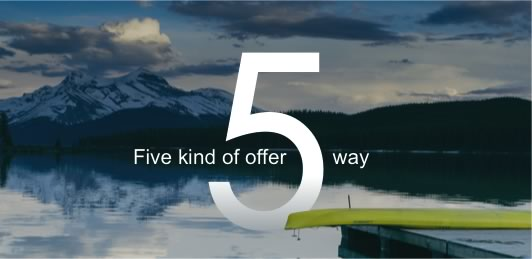
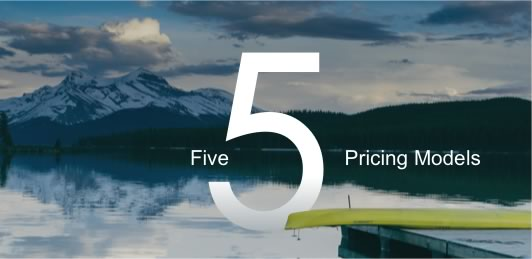
修正一些文案，还原部分漏掉的设计，增加登录按钮

diff --git a/template/index.html b/template/index.html
@@ -50,12 +50,12 @@
   <p class="leading">基于推广需求及产品特征打造定制化的移动推广方案</p>
   <div class="container block">
     <div class="row">
-      <div class="col-sm-6 col-xs-12">
+      <div class="col-sm-6 col-xs-12 pr-5 img-left">
         <img src="{{theme_url}}/img/ad-types.jpg">
       </div>
-      <div class="col-sm-6 col-xs-12 ad-types">
+      <div class="col-sm-6 col-xs-12 ad-types pr-5">
         <h3 class="block-title">七大广告形式</h3>
-        <p class="leading">Advertising forms of seven</p>
+        <p class="leading">Seven Advertising Forms</p>
         <ul>
           <li>
             <i class="icon icon-sale"></i>
@@ -89,12 +89,12 @@
       </div>
     </div>
     <div class="row">
-      <div class="col-sm-6 col-xs-12 pull-right">
+      <div class="col-sm-6 col-xs-12 pull-right img-right pl-5">
         <img src="{{theme_url}}/img/offer-ways.jpg">
       </div>
-      <div class="col-sm-6 col-xs-12 pull-right offer-ways">
+      <div class="col-sm-6 col-xs-12 pull-right offer-ways pr-5">
         <h3 class="block-title">五种出价方式</h3>
-        <p class="leading">Five kind of offer way</p>
+        <p class="leading">Five Pricing Models</p>
         <ul>
           <li><h4>CPA</h4></li>
           <li><h4>CPM</h4></li>
@@ -107,7 +107,7 @@
   </div>
   <div class="container earnings">
     <h3 class="block-title">五大收益方向</h3>
-    <p class="leading">Five big earnings direction</p>
+    <p class="leading">Five Advertising Effects</p>
     <ul>
       <li>
         <i class="icon-color icon-improve"></i>
@@ -235,11 +235,12 @@
 
 <div id="business">
   <section class="container">
-    <h2>商务合作：</h2>
+    <h2>合作对接：</h2>
     <ul>
-      <li>【安卓】Mobile：13520327725   QQ: 879509586</li>
-      <li>【iOS】Mobile：18510238828   QQ: 2858661171</li>
-      <li>【VIP】Mobile：13811709335   QQ：26485070</li>
+      <li>【安卓商务】手机：13520327725 | QQ: 879509586</li>
+      <li>【iOS商务】手机：18510238828 | QQ: 2858661171</li>
+      <li>【开发者】手机：18681807739 | QQ：1103057179</li>
+      <li>【外放渠道】手机：18801040973 | QQ：473356366</li>
     </ul>
   </section>
 </div>

diff --git a/sass/page/homepage/_product.sass b/sass/page/homepage/_product.sass
@@ -3,6 +3,7 @@
 @import "compass/css3/box-shadow"
 @import "compass/css3/images"
 @import "compass/css3/transform"
+@import "../../core/mixin"
 @import "../../define"
 
 .home #product
@@ -23,14 +24,19 @@
     background-color: $white
     padding: $gap-s
     margin-bottom: $gap-xl
+    max-width: 1064px + $gap-s * 3
 
     .row
       margin: 0
+
+      + .row
+        margin-top: $gap-s
 
     [class^=col-]
       padding: 0
 
   img
+    display: block
     max-width: 100%
 
   .ad-types,
@@ -205,6 +211,13 @@
 
   @media (max-width: $screen-xs-max)
     &
+      .block
+        .img-left::after,
+        .img-right::after
+          @include triangle(top, $white, .5em)
+          left: 50%
+          bottom: 0
+
       .earnings
         li:nth-of-type(2n)
           margin-left: $gap-s + $gap-xs
@@ -214,6 +227,23 @@
 
   @media (min-width: $screen-sm-min)
     &
+      .block
+        .pl-5
+          padding-left: $gap-xs
+
+        .pr-5
+          padding-right: $gap-xs
+
+        .img-left::after
+          @include triangle(left, $white, .5em)
+          top: 50%
+          right: $gap-xs
+
+        .img-right::after
+          @include triangle(right, $white, .5em)
+          top: 50%
+          left: $gap-xs
+
       .earnings
         li + li
           margin-left: $gap-s + $gap-xs

diff --git a/sass/core/_mixin.sass b/sass/core/_mixin.sass
@@ -1,0 +1,24 @@
+/// Triangle helper mixin
+/// @param {Direction} $direction - Triangle direction, either `top`, `right`, `bottom` or `left`
+/// @param {Color} $color [currentcolor] - Triangle color
+/// @param {Length} $size [1em] - Triangle size
+@mixin triangle($direction, $color: currentcolor, $size: 1em)
+  @if not index(top right bottom left, $direction)
+    @error "Direction must be either `top`, `right`, `bottom` or `left`."
+
+
+  width: 0
+  height: 0
+  content: ''
+  z-index: 2
+  position: absolute
+  border-#{opposite-position($direction)}: ($size * 1.5) solid $color
+
+  $perpendicular-borders: $size solid transparent
+
+  @if $direction == top or $direction == bottom
+    border-left:   $perpendicular-borders
+    border-right:  $perpendicular-borders
+  @else if $direction == right or $direction == left
+    border-bottom: $perpendicular-borders
+    border-top:    $perpendicular-borders

diff --git a/template/header.html b/template/header.html
@@ -40,7 +40,7 @@
         <span class="sr-only">收放菜单</span>
         <i class="fa fa-bars"></i>
       </button>
-      <a href="#login-form" class="navbar-toggle login-button" data-toggle="modal"><i class="fa fa-user"></i></a>
+      <a href="/dev/" class="login-button"><i class="fa fa-user"></i></a>
       <a class="navbar-brand" href="/">dianjoy 点乐</a>
     </div>
     {{{nav}}}

diff --git a/sass/framework/_header.sass b/sass/framework/_header.sass
@@ -23,9 +23,6 @@
     &:hover
       background-color: $active-color
       color: $white
-    
-  .login-button
-    display: none
 
   .home &
     border: none
@@ -52,7 +49,7 @@
             margin-right: $gap-xs
 
         .login-button
-          color: $font-color
+          color: $top-bar-color
 
       .navbar-brand
         width: 120px + $navbar-padding-horizontal

diff --git a/header.php b/header.php
@@ -21,19 +21,16 @@ $nav = array(
 );
 
 //非首页加入登录注册导航链接
-$not_index = $_SERVER['REQUEST_URI'] != '/';
-if ($not_index) {
-  $is_en = isset($_SERVER['HTTP_ACCEPT_LANGUAGE']) && stripos($_SERVER['HTTP_ACCEPT_LANGUAGE'], 'en') !== FALSE;
-  if (($is_en || isset($_REQUEST['lang']) && $_REQUEST['lang'] == 'en') && $_SERVER['REQUEST_URI'] == '/expedition') {
-    $login = 'Login';
-  } else {
-    $login = '登录/注册';
-  }
-  $login = '<li><a href="/dev/login.php">' . $login . '</a></li>';
-  add_filter('wp_nav_menu_items', function ( $items ) use ( $login ) {
-    return $items . $login;
-  });
+$is_en = isset($_SERVER['HTTP_ACCEPT_LANGUAGE']) && stripos($_SERVER['HTTP_ACCEPT_LANGUAGE'], 'en') !== FALSE;
+if (($is_en || isset($_REQUEST['lang']) && $_REQUEST['lang'] == 'en') && $_SERVER['REQUEST_URI'] == '/expedition') {
+  $login = 'Login';
+} else {
+  $login = '登录';
 }
+$login = '<li><a href="/dev/login.php">' . $login . '</a></li>';
+add_filter('wp_nav_menu_items', function ( $items ) use ( $login ) {
+  return $items . $login;
+});
 
 // 提取描述和关键词
 $tags = $description = '';
